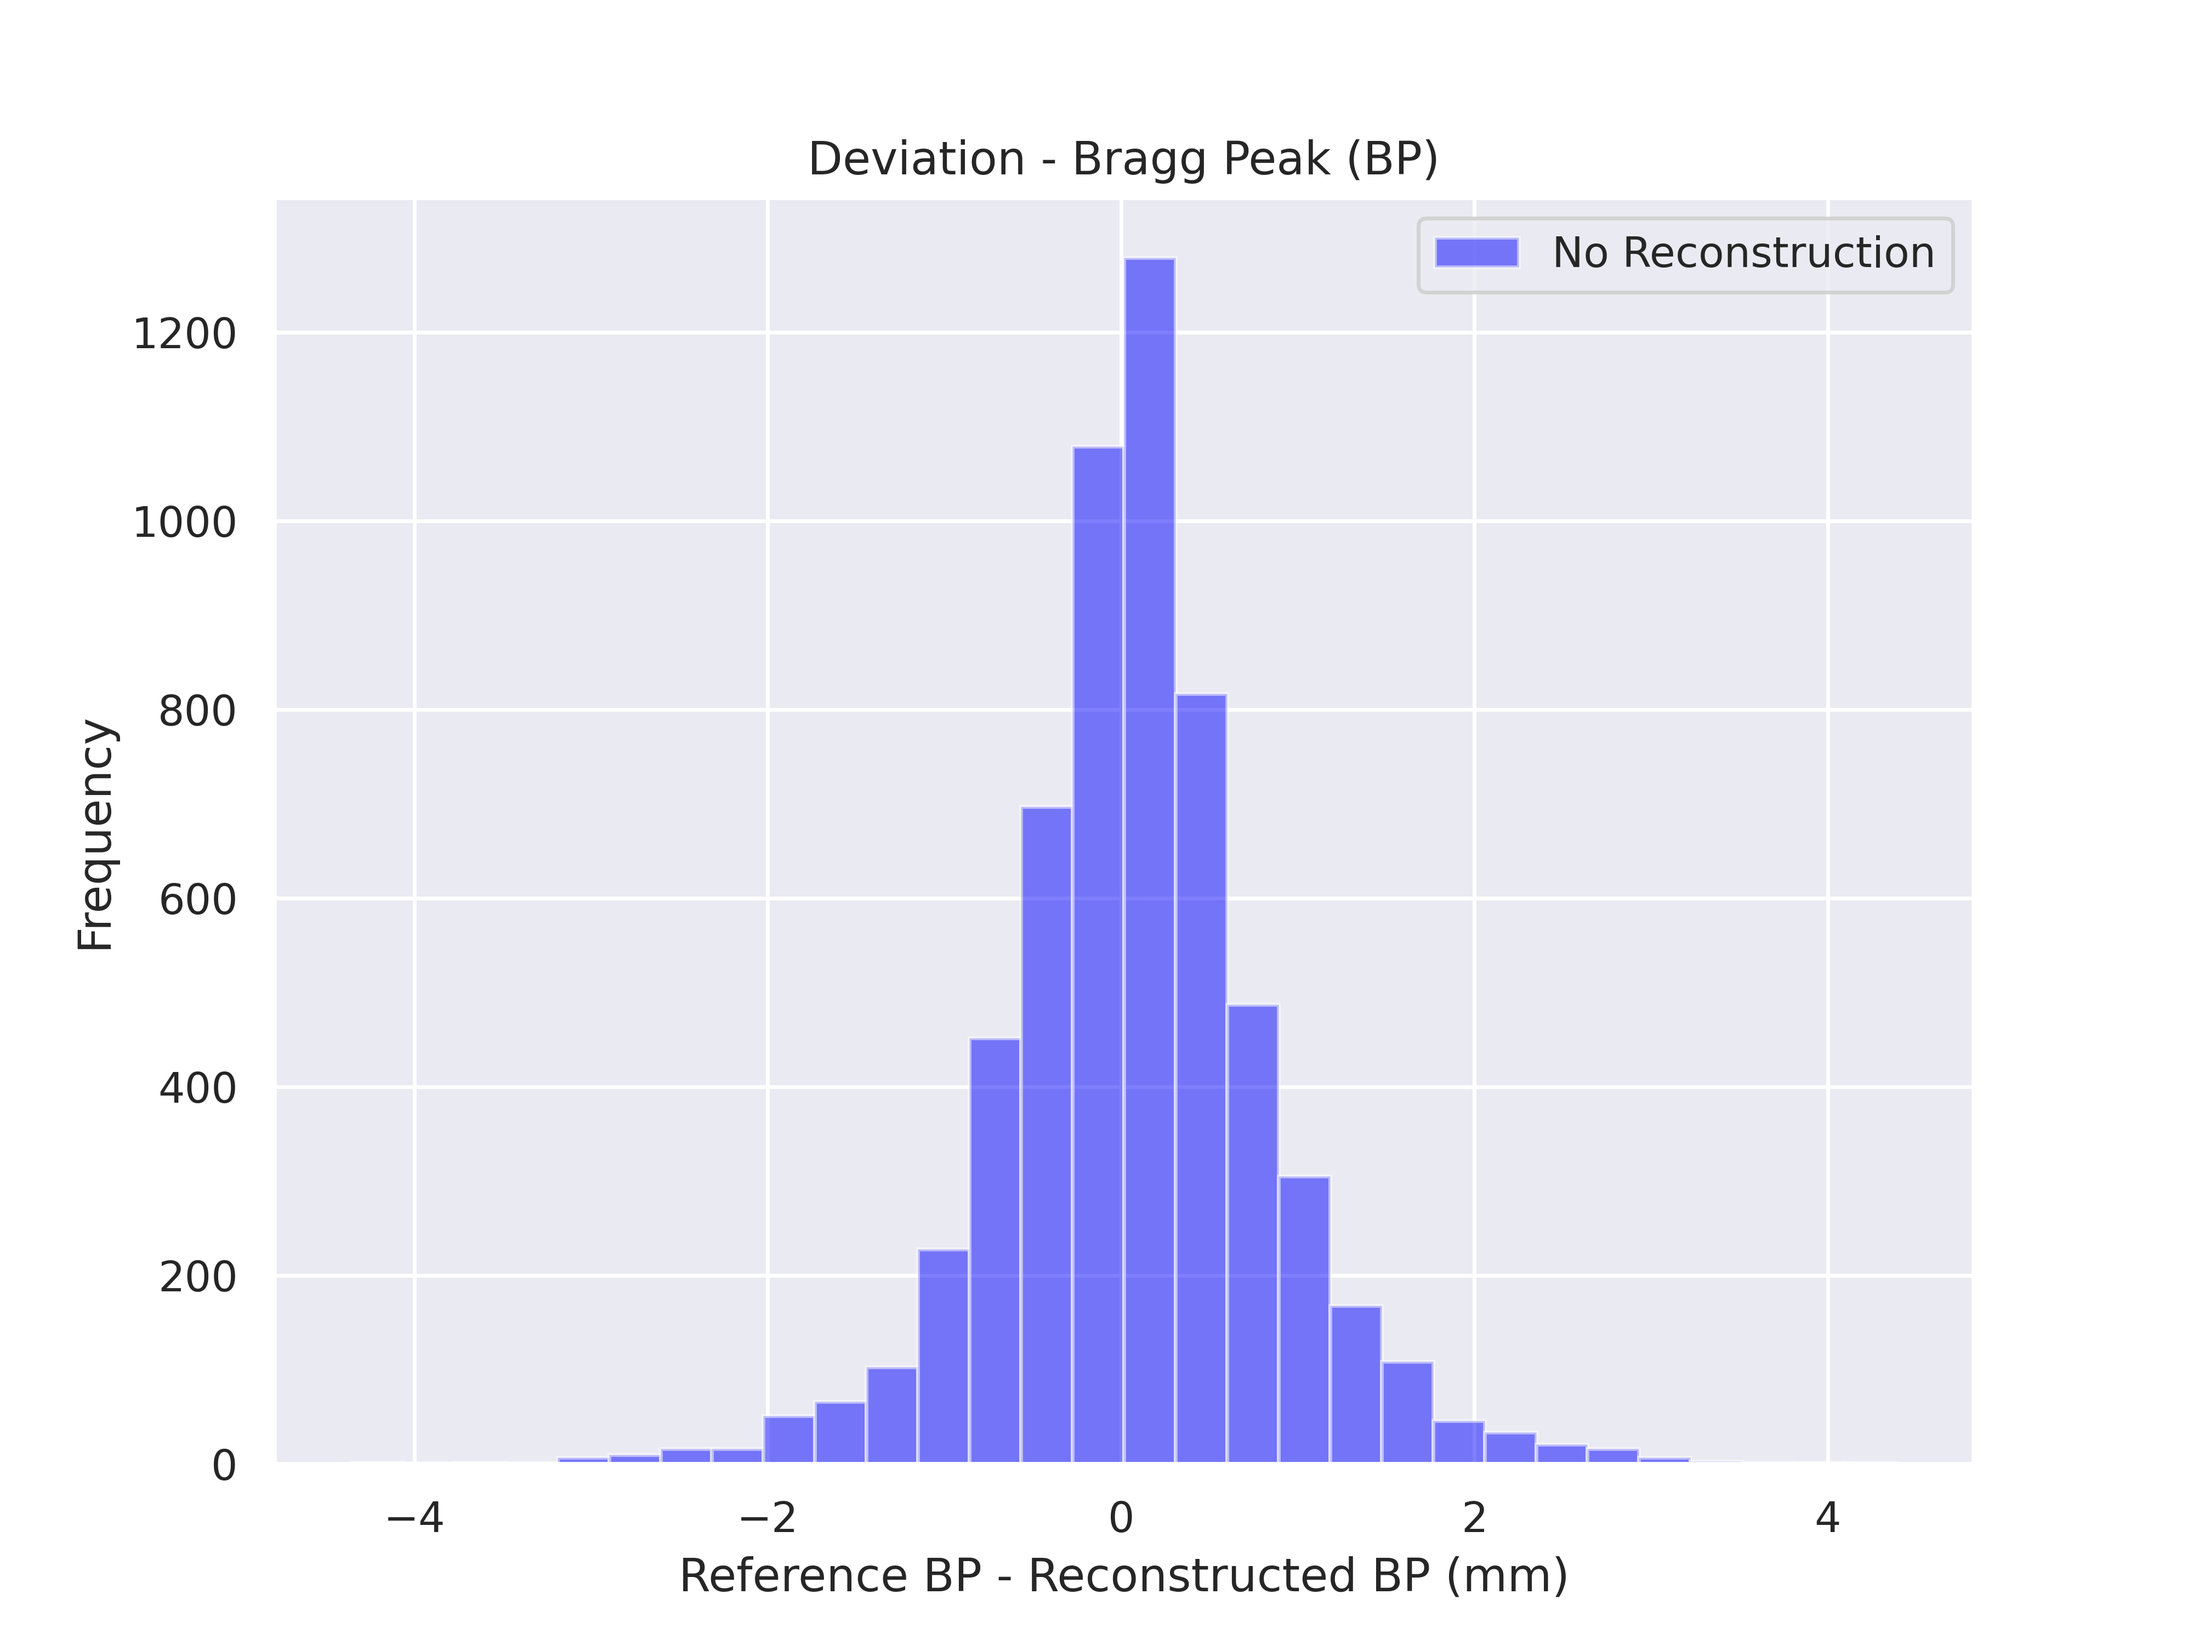
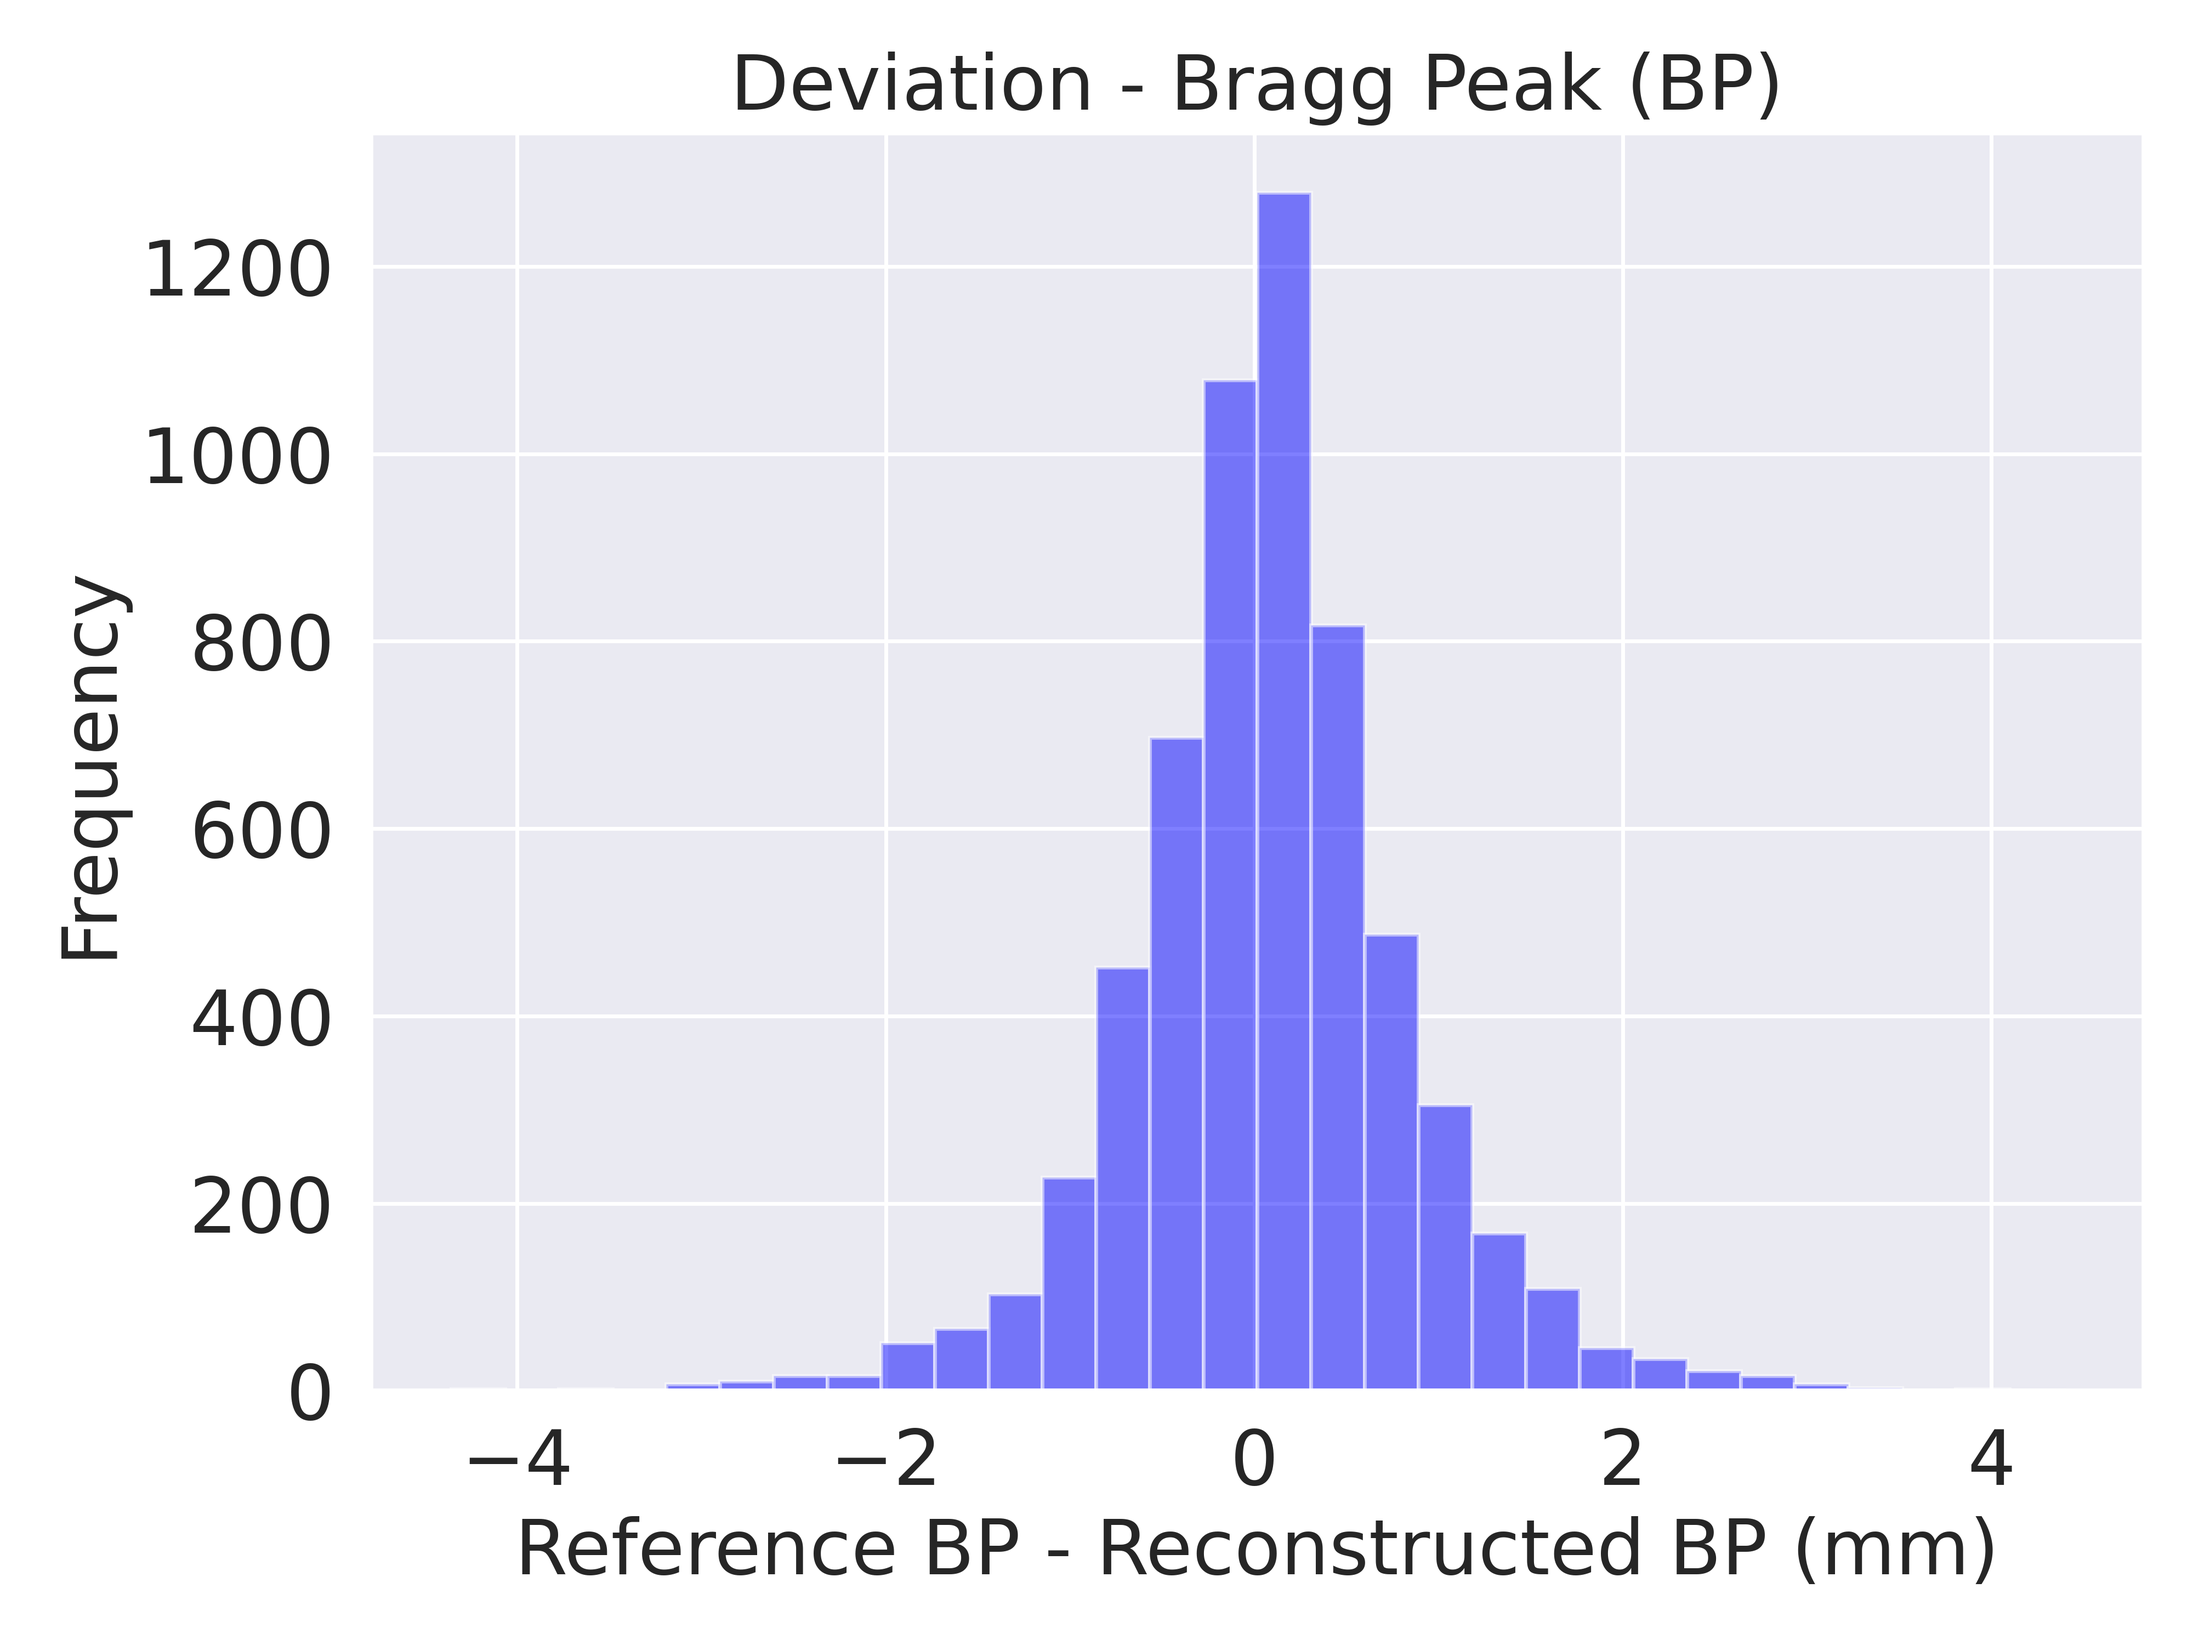
final changes before presentation

diff --git a/deep-learning-dose-activity-dictionary/dad-nn-penetrating-beams.py b/deep-learning-dose-activity-dictionary/dad-nn-penetrating-beams.py
@@ -93,18 +93,23 @@ set_seed(seed)
 
 num_samples = 948
 # Create dataset applying the transforms
-dataset = DoseActivityDataset(input_dir=input_dir, output_dir=output_dir,
-                              input_transform=input_transform, output_transform=output_transform, joint_transform=joint_transform,
-                              CT_flag=CT_flag, CT=CT, num_samples=num_samples, energy_beam_dict=energy_beam_dict)
+train_val_dataset = DoseActivityDataset(input_dir=input_dir, output_dir=output_dir,
+                                        input_transform=input_transform, output_transform=output_transform, joint_transform=joint_transform,
+                                        CT_flag=CT_flag, CT=CT, num_samples=num_samples, energy_beam_dict=energy_beam_dict,
+                                        training_set=True)
+test_dataset = DoseActivityDataset(input_dir=input_dir, output_dir=output_dir,
+                                   input_transform=input_transform, output_transform=output_transform, joint_transform=joint_transform,
+                                   CT_flag=CT_flag, CT=CT, num_samples=num_samples, energy_beam_dict=energy_beam_dict,
+                                   test_set=True)
+
 
 # Split dataset into 80% training, 15% validation, 5% testing
-train_size = int(0.8 * len(dataset))
-val_size = int(0.15 * len(dataset))
-test_size = len(dataset) - train_size - val_size
-train_dataset, val_dataset, test_dataset = torch.utils.data.random_split(dataset, [train_size, val_size, test_size])
+train_size = int(0.75 * len(train_val_dataset))
+val_size = len(train_val_dataset) - train_size
+train_dataset, val_dataset = torch.utils.data.random_split(train_val_dataset, [train_size, val_size])
 
 # Create DataLoaders for training
-batch_size = 1
+batch_size = 4
 num_workers = 1
 train_loader = DataLoader(train_dataset, batch_size=batch_size, shuffle=True, num_workers=num_workers)
 val_loader = DataLoader(val_dataset, batch_size=batch_size, shuffle=False, num_workers=num_workers)
@@ -120,16 +125,16 @@ model = SwinUNETR(in_channels=in_channels, out_channels=1, img_size=img_size).to
 # model = UNetV13().to(device)
 
 
-model_dir = 'models/trained-models/SwinUNETR-v14.pth'
-timing_dir = 'models/training-times/training-time-SwinUNETR-v14.txt'
-losses_dir = 'models/losses/SwinUNETR-v14-loss.csv'
+model_dir = 'models/trained-models/SwinUNETR-v14-penetrating.pth'
+timing_dir = 'models/training-times/training-time-SwinUNETR-v14-penetrating.txt'
+losses_dir = 'models/losses/SwinUNETR-v14-penetrating-loss.csv'
 n_epochs = 50
-save_plot_dir = "images/SwinUNETR-v14-loss.png"
-# trained_model = train(model, train_loader, val_loader, epochs=n_epochs, mean_output=mean_output, std_output=std_output,
-#                       model_dir=model_dir, timing_dir=timing_dir, save_plot_dir=save_plot_dir, losses_dir=losses_dir)
+save_plot_dir = "images/SwinUNETR-v14-penetrating-loss.png"
+trained_model = train(model, train_loader, val_loader, epochs=n_epochs, mean_output=mean_output, std_output=std_output,
+                      model_dir=model_dir, timing_dir=timing_dir, save_plot_dir=save_plot_dir, losses_dir=losses_dir)
 
 # Loading the trained model
-model_dir = "models/trained-models/SwinUNETR-v14.pth"
+model_dir = "models/trained-models/SwinUNETR-v14-penetrating.pth"
 trained_model = torch.load(model_dir, map_location=torch.device(device))
 
 ###
@@ -155,23 +160,23 @@ trained_model = torch.load(model_dir, map_location=torch.device(device))
 plot_loader = test_loader
 
 # Plotting slices of the dose
-save_plot_dir = "images/SwinUNETR-v14-sample.png"
+save_plot_dir = "images/SwinUNETR-v14-penetrating-sample.png"
 plot_slices(trained_model, plot_loader, device, CT_flag=CT_flag, CT_manual=CT, 
             mean_input=mean_input, std_input=std_input, mean_output=mean_output, std_output=std_output,
             save_plot_dir=save_plot_dir, patches=patches) 
  
 # Plotting the dose-depth profiles
-save_plot_dir = "images/SwinUNETR-v14-ddp.png"
+save_plot_dir = "images/SwinUNETR-v14-penetrating-ddp.png"
 plot_ddp(trained_model, plot_loader, device, mean_output=mean_output,
          std_output=std_output, save_plot_dir=save_plot_dir, patches=patches, patch_size=img_size[2]//2)
 
-results_dir = 'models/test-results/SwinUNETR-v14-results.txt'
-save_plot_dir = 'images/SwinUNETR-v14-range-hist.png'
+results_dir = 'models/test-results/SwinUNETR-v14-penetrating-results.txt'
+save_plot_dir = 'images/SwinUNETR-v14-penetrating-range-hist.png'
 test(trained_model, test_loader, device, results_dir=results_dir, mean_output=mean_output, std_output=std_output, save_plot_dir=save_plot_dir)
 
 # dose2act_model_dir = "models/trained-models/reverse-SwinUNETR-v1.pth"
 # dose2act_model = torch.load(dose2act_model_dir, map_location=torch.device(device))
-# act2dose_model_dir = "models/trained-models/SwinUNETR-v14.pth"
+# act2dose_model_dir = "models/trained-models/SwinUNETR-v14-penetrating.pth"
 # act2dose_model = torch.load(act2dose_model_dir, map_location=torch.device(device))
 # back_and_forth(dose2act_model, act2dose_model, plot_loader, device, reconstruct_dose=False, num_cycles=1, y_slice=32, 
 #                mean_act=mean_input, std_act=std_input, mean_dose=mean_output, std_dose=std_output, save_plot_dir="images/reconstructed_act_blob_1cycle.png")

diff --git a/deep-learning-dose-activity-dictionary/utils.py b/deep-learning-dose-activity-dictionary/utils.py
@@ -10,6 +10,7 @@ import unfoldNd
 import seaborn as sns 
 import matplotlib.pyplot as plt
 import pymedphys
+from collections import Counter
 
 def set_seed(seed):
     """
@@ -30,7 +31,9 @@ class DoseActivityDataset(Dataset):
     Create the dataset where the activity is the input and the dose is the output.
     The relevant transforms are applied.
     """
-    def __init__(self, input_dir, output_dir, num_samples=5, input_transform=None, output_transform=None, joint_transform=None, CT_flag=False, CT=None, energy_beam_dict=None):
+    def __init__(self, input_dir, output_dir, num_samples=5, input_transform=None, output_transform=None, 
+                 joint_transform=None, CT_flag=False, CT=None, energy_beam_dict=None,
+                 training_set=False, test_set=False):
         self.input_dir = input_dir
         self.output_dir = output_dir
         self.input_transform = input_transform
@@ -38,6 +41,24 @@ class DoseActivityDataset(Dataset):
         self.joint_transform = joint_transform
         self.energy_beam_dict = energy_beam_dict
         self.file_names = os.listdir(input_dir)[:num_samples]
+        
+        # testing set made up of the most energetic beams
+        if (training_set or test_set) and energy_beam_dict:
+            self.file_names_new = []
+            energy_counts = Counter(energy_beam_dict.values())
+            sorted_energies = sorted(energy_counts.keys())
+            energy_threshold = float(sorted_energies[-4])
+            number_beams = len(self.file_names)
+            for idx in range(number_beams):    
+                beam = self.file_names[idx][:4]
+                beam_energy = energy_beam_dict[beam]
+                if test_set and float(beam_energy) >= energy_threshold:
+                    self.file_names_new.append(self.file_names[idx])
+                elif training_set and float(beam_energy) <= energy_threshold:
+                    self.file_names_new.append(self.file_names[idx])
+            self.file_names = self.file_names_new
+        
+        
         self.CT_flag = CT_flag
         self.CT = CT
 
@@ -63,7 +84,7 @@ class DoseActivityDataset(Dataset):
         if self.CT_flag:
             input_volume = torch.cat((input_volume, torch.tensor(self.CT, dtype=torch.float32).unsqueeze(0)))
         if self.energy_beam_dict is not None:
-            beam_number = self.file_names[idx][0:4]
+            beam_number = self.file_names[idx][:4]
             beam_energy = self.energy_beam_dict.get(beam_number, 0.0)
             # if (beam_energy == 0.0):
             #     print(beam_number)
@@ -408,11 +429,15 @@ def plot_range_histogram(range_list, save_plot_dir="images/hist_BP_deviation.png
     range_list = range_list[range_list > -5]
     plt.hist(range_list.flatten(), bins=bins, color='blue', alpha=0.5)#, label='No Reconstruction')
 
-    plt.title('Deviation - Bragg Peak (BP)')
-    plt.xlabel('Reference BP - Reconstructed BP (mm)')
-    plt.ylabel('Frequency')
+    font_size = 20
+    plt.xticks(fontsize=font_size)
+    plt.yticks(fontsize=font_size)
+    plt.title('Deviation - Bragg Peak (BP)', fontsize=font_size)
+    plt.xlabel('Reference BP - Reconstructed BP (mm)', fontsize=font_size)
+    plt.ylabel('Frequency', fontsize=font_size)
+    plt.tight_layout()
 
-    plt.legend()
+    # plt.legend()
     plt.savefig(save_plot_dir, dpi=500)
     return None
 

diff --git a/deep-learning-dose-activity-dictionary/test_model.py b/deep-learning-dose-activity-dictionary/test_model.py
@@ -3,10 +3,12 @@ import torch.nn as nn
 from tqdm import tqdm
 from utils import RE_loss, range_loss, post_BP_loss, gamma_index, pymed_gamma, plot_range_histogram
 import numpy as np
+import time ###
 
 def test(trained_model, test_loader, device, results_dir='.',
          mean_output=0, std_output=1, save_plot_dir='images/hist.png'):
     # Test loop (after the training is complete)
+    time_list = []
     RE_loss_list = []
     l2_loss_list = []
     l2_loss = nn.MSELoss()
@@ -22,7 +24,9 @@ def test(trained_model, test_loader, device, results_dir='.',
     with torch.no_grad():
         for batch_input, batch_target, _ in tqdm(test_loader):
             batch_input = batch_input.to(device)
+            start_time = time.time()
             batch_output = trained_model(batch_input)
+            time_list.append((time.time() - start_time) * 1000)
             batch_output = batch_output.detach().cpu()
             torch.cuda.empty_cache()
             RE_loss_list.append(RE_loss(batch_output, batch_target, mean_output=mean_output, std_output=std_output))   ### set it to absolute value
@@ -53,7 +57,8 @@ def test(trained_model, test_loader, device, results_dir='.',
            f"R10: {torch.mean(R10_list)} +- {torch.std(R10_list)}\n" \
            f"L2 Loss: {torch.mean(l2_loss_list)} +- {torch.std(l2_loss_list)}\n" \
            f"Gamma index: {torch.mean(gamma_list)} +- {torch.std(gamma_list)}\n" \
-           f"Gamma index (good one - pymed one): {torch.mean(gamma_pymed_list)} +- {torch.std(gamma_pymed_list)}"
+           f"Gamma index (good one - pymed one): {torch.mean(gamma_pymed_list)} +- {torch.std(gamma_pymed_list)}\n" \
+           f"Time per loading (ms): {np.mean(np.array(time_list))} +- {np.std(np.array(time_list))}"
     print(text_results)
 
     # Save to file
